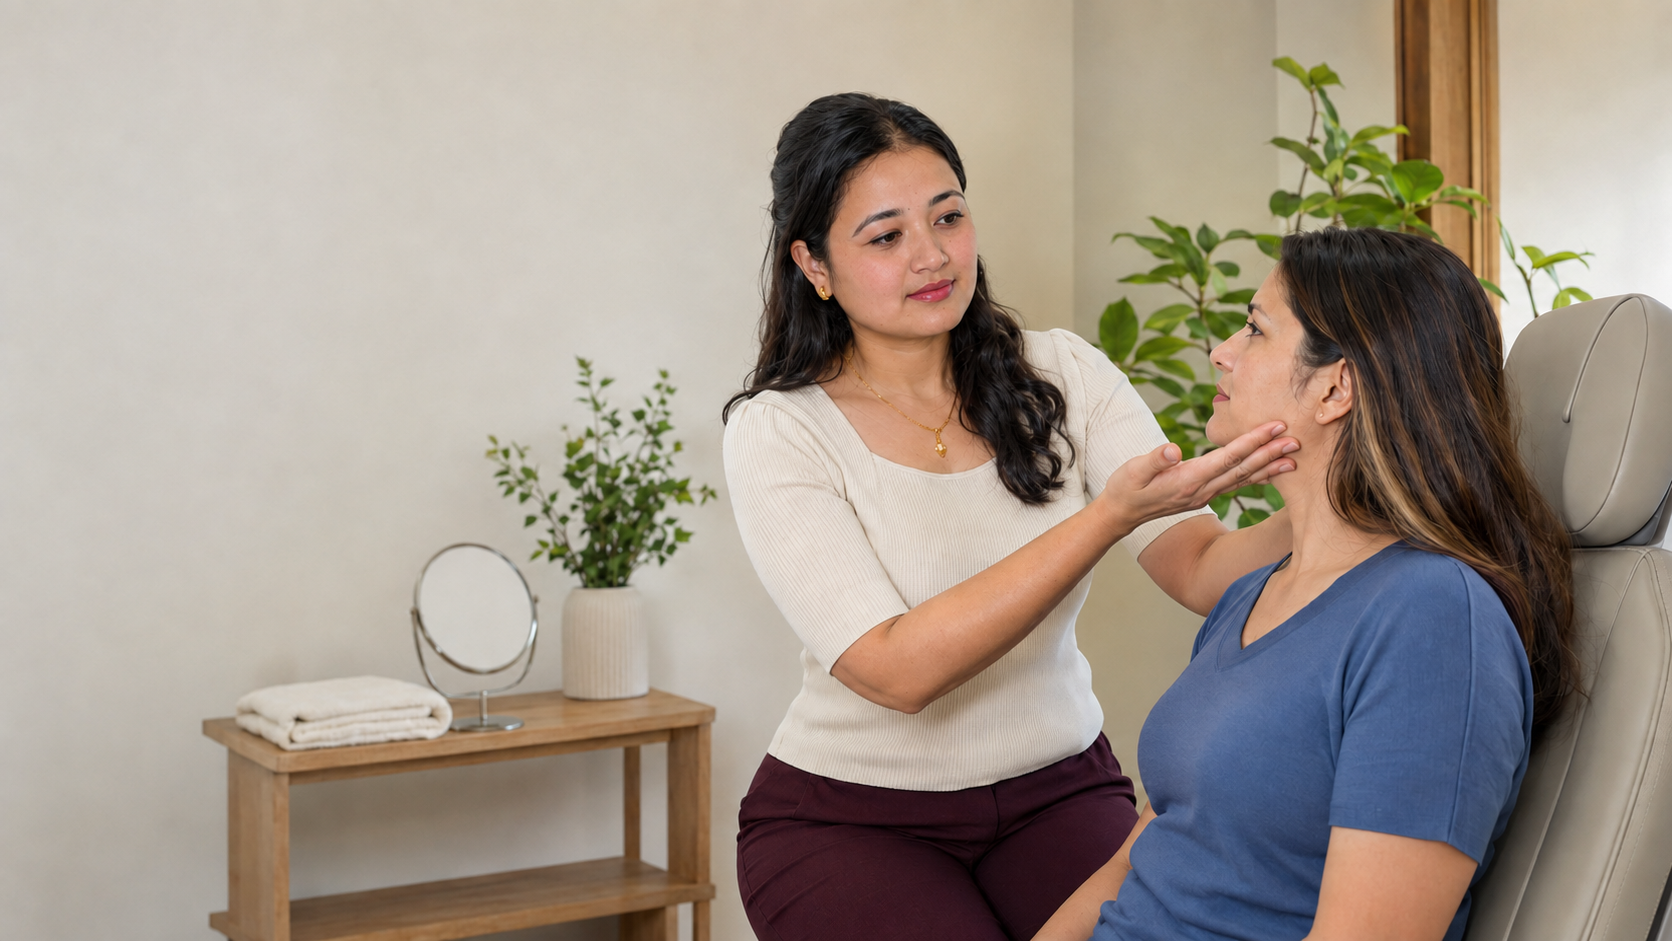
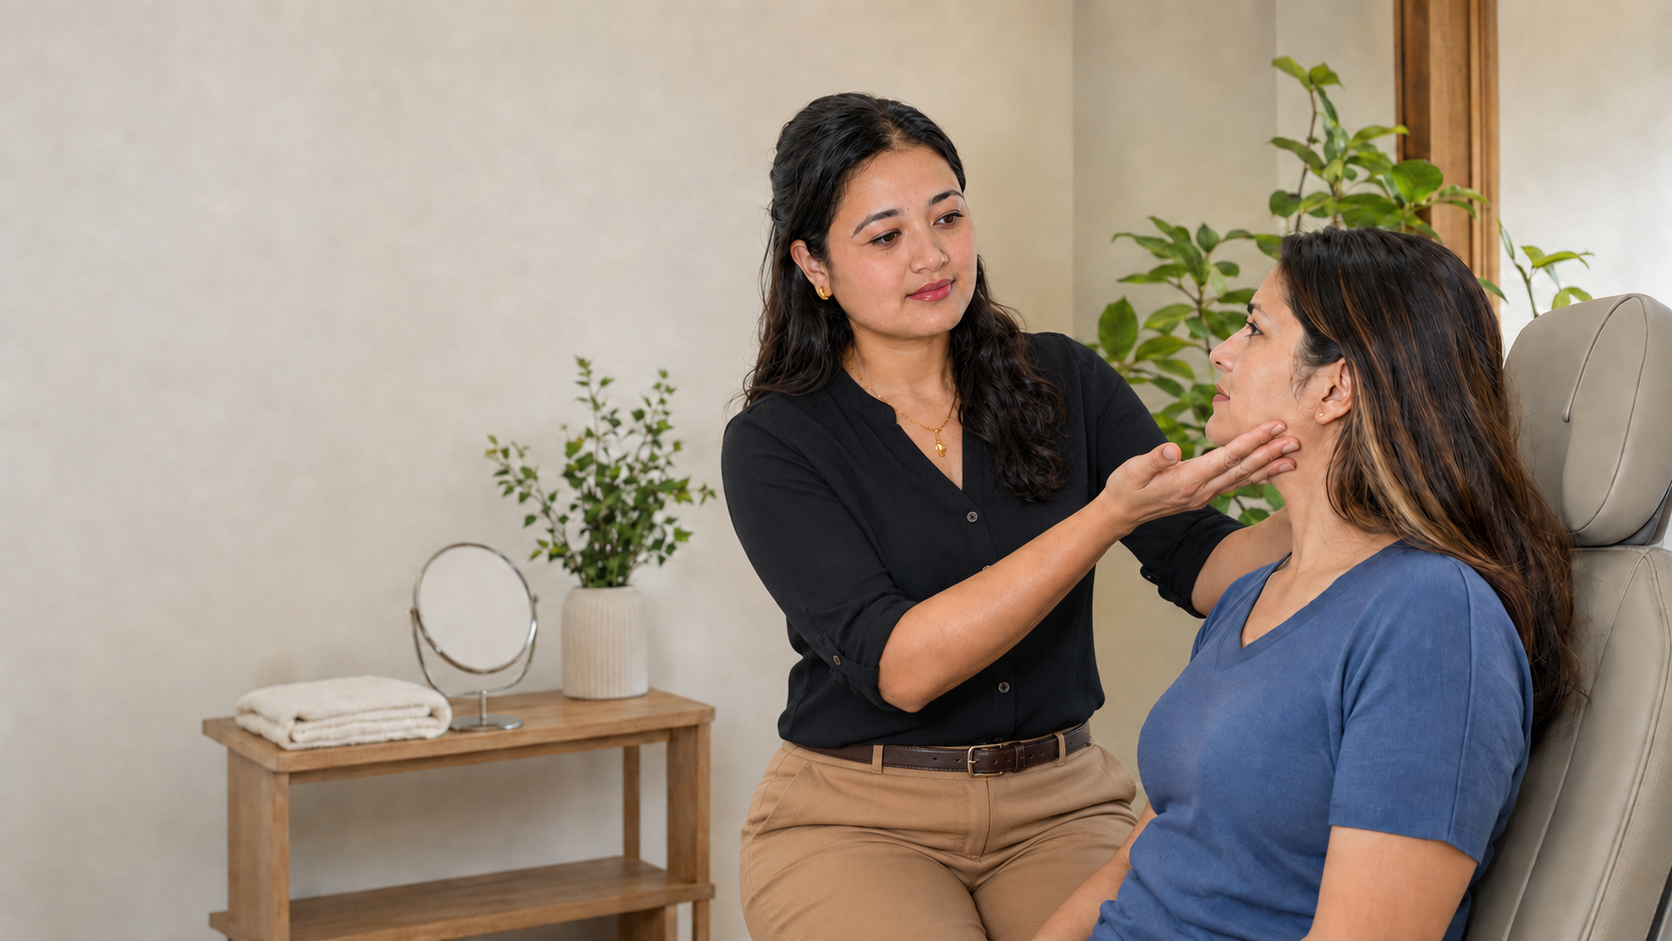
new image

Changed region(s): [[0.4043, 0.339, 0.7153, 1.0], [0.6531, 0.5239, 0.7464, 0.6472], [0.9952, 0.4931, 1.0, 0.5239]]

diff --git a/index.html b/index.html
@@ -1695,13 +1695,6 @@
             color: var(--primary-red-hover);
         }
 
-        .footer-image-credits-link {
-            display: inline-block;
-            margin-top: 7px;
-            color: #A0AEC0;
-            font-size: 0.75rem;
-        }
-
         /* --- Responsive Media Queries --- */
         @media (max-width: 1300px) {
             .mobile-toggle {
@@ -2387,7 +2380,7 @@
 
                 <article class="clinical-service-card clinical-service-card--burn">
                     <div class="clinical-service-media">
-                        <img src="assets/images/service-burn-rehabilitation.jpg" alt="Physical therapist providing hand rehabilitation" width="1200" height="1800" loading="lazy" decoding="async">
+                        <img src="assets/images/burn.png" alt="Physical therapist supporting arm mobility during burn rehabilitation" width="1672" height="941" loading="lazy" decoding="async">
                     </div>
                     <div class="clinical-service-content">
                         <h3>Burn Rehabilitation</h3>
@@ -2605,7 +2598,6 @@
         <div class="footer-bottom">
             <div class="container">
                 <p>&copy; 2026 Source Motion Physical Therapy LLC. All Rights Reserved.</p>
-                <a href="assets/image-credits.html" class="footer-image-credits-link">Image credits &amp; licenses</a>
             </div>
         </div>
     </footer>
